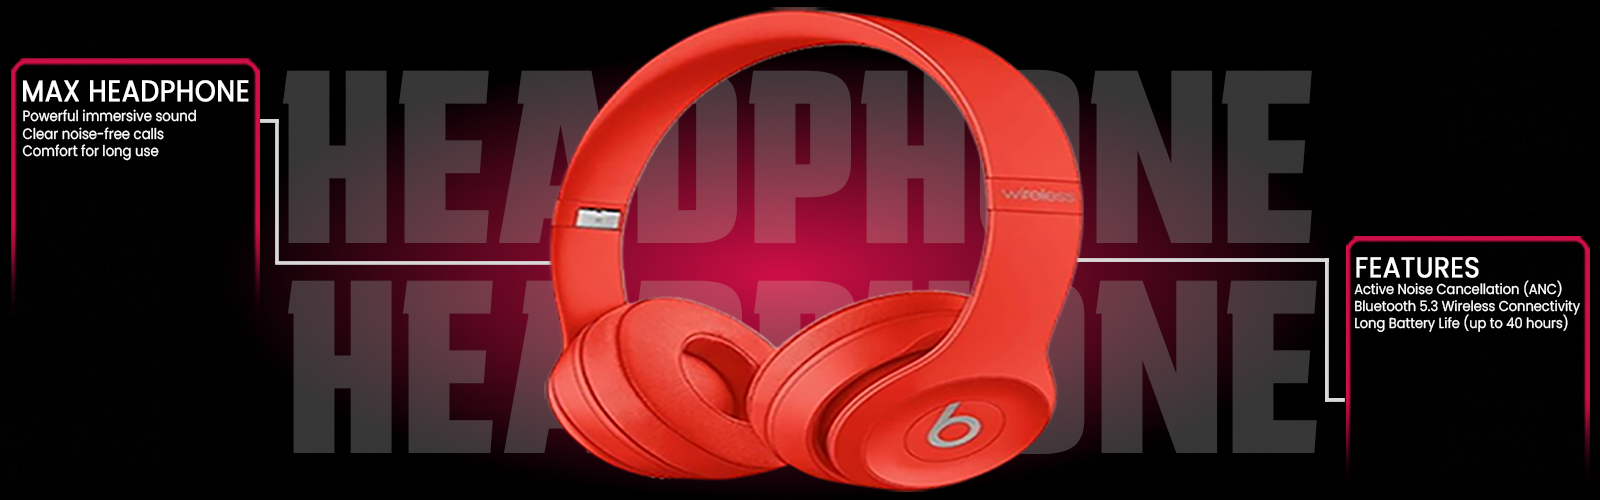
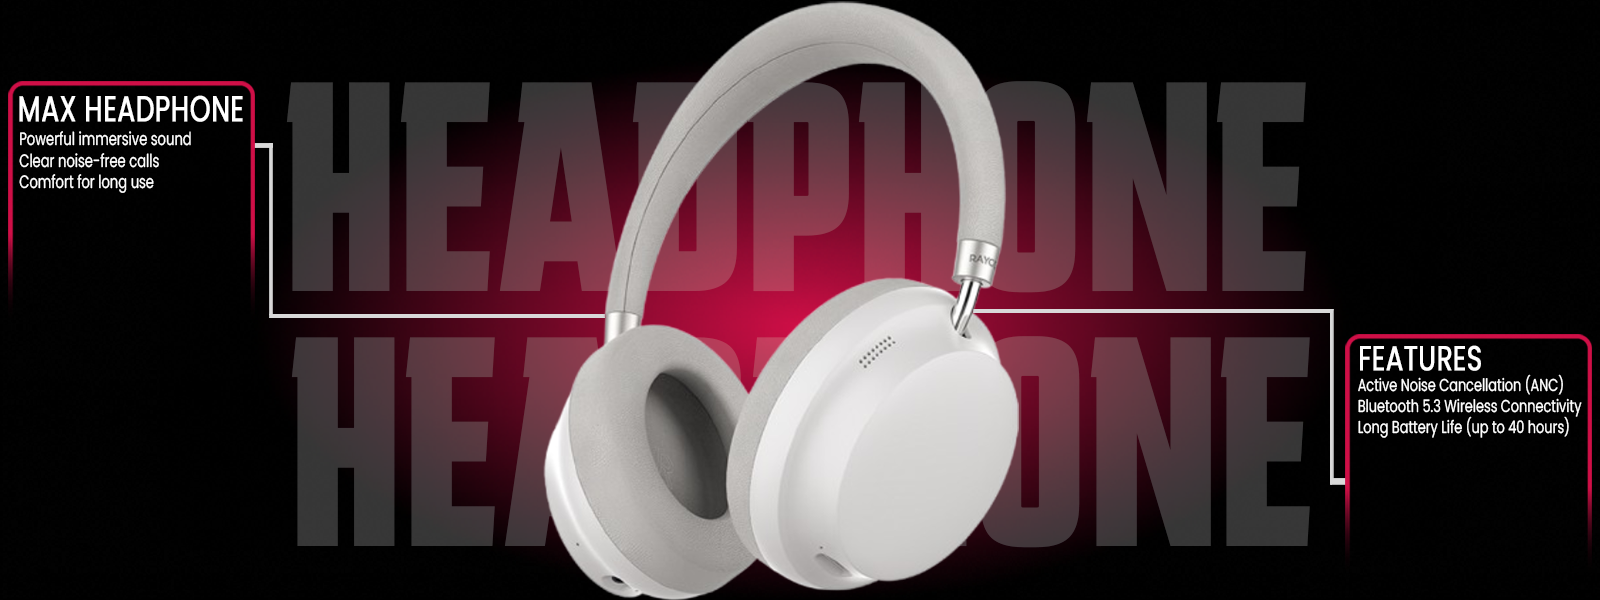
Added new images for "New Products" swiper slider
Edited on Photshop
Also adjusted
disableOnInteraction --> false

diff --git a/assets/js/swiper.js b/assets/js/swiper.js
@@ -6,7 +6,7 @@ var newProductSwiper = new Swiper(".new-product-swiper", {
   // centeredSlides: true,
   autoplay: {
     delay: 3000,
-    disableOnInteraction: true,
+    disableOnInteraction: false,
   },
   navigation: {
     nextEl: ".new-product-swiper-btn-next",

diff --git a/assets/css/sections/new-products.css b/assets/css/sections/new-products.css
@@ -12,6 +12,6 @@
 
 @media (max-width: 768px) {
     .new-product-img {
-        aspect-ratio: 4 / 2;
+        aspect-ratio: 3.5 / 2;
     }
 }
